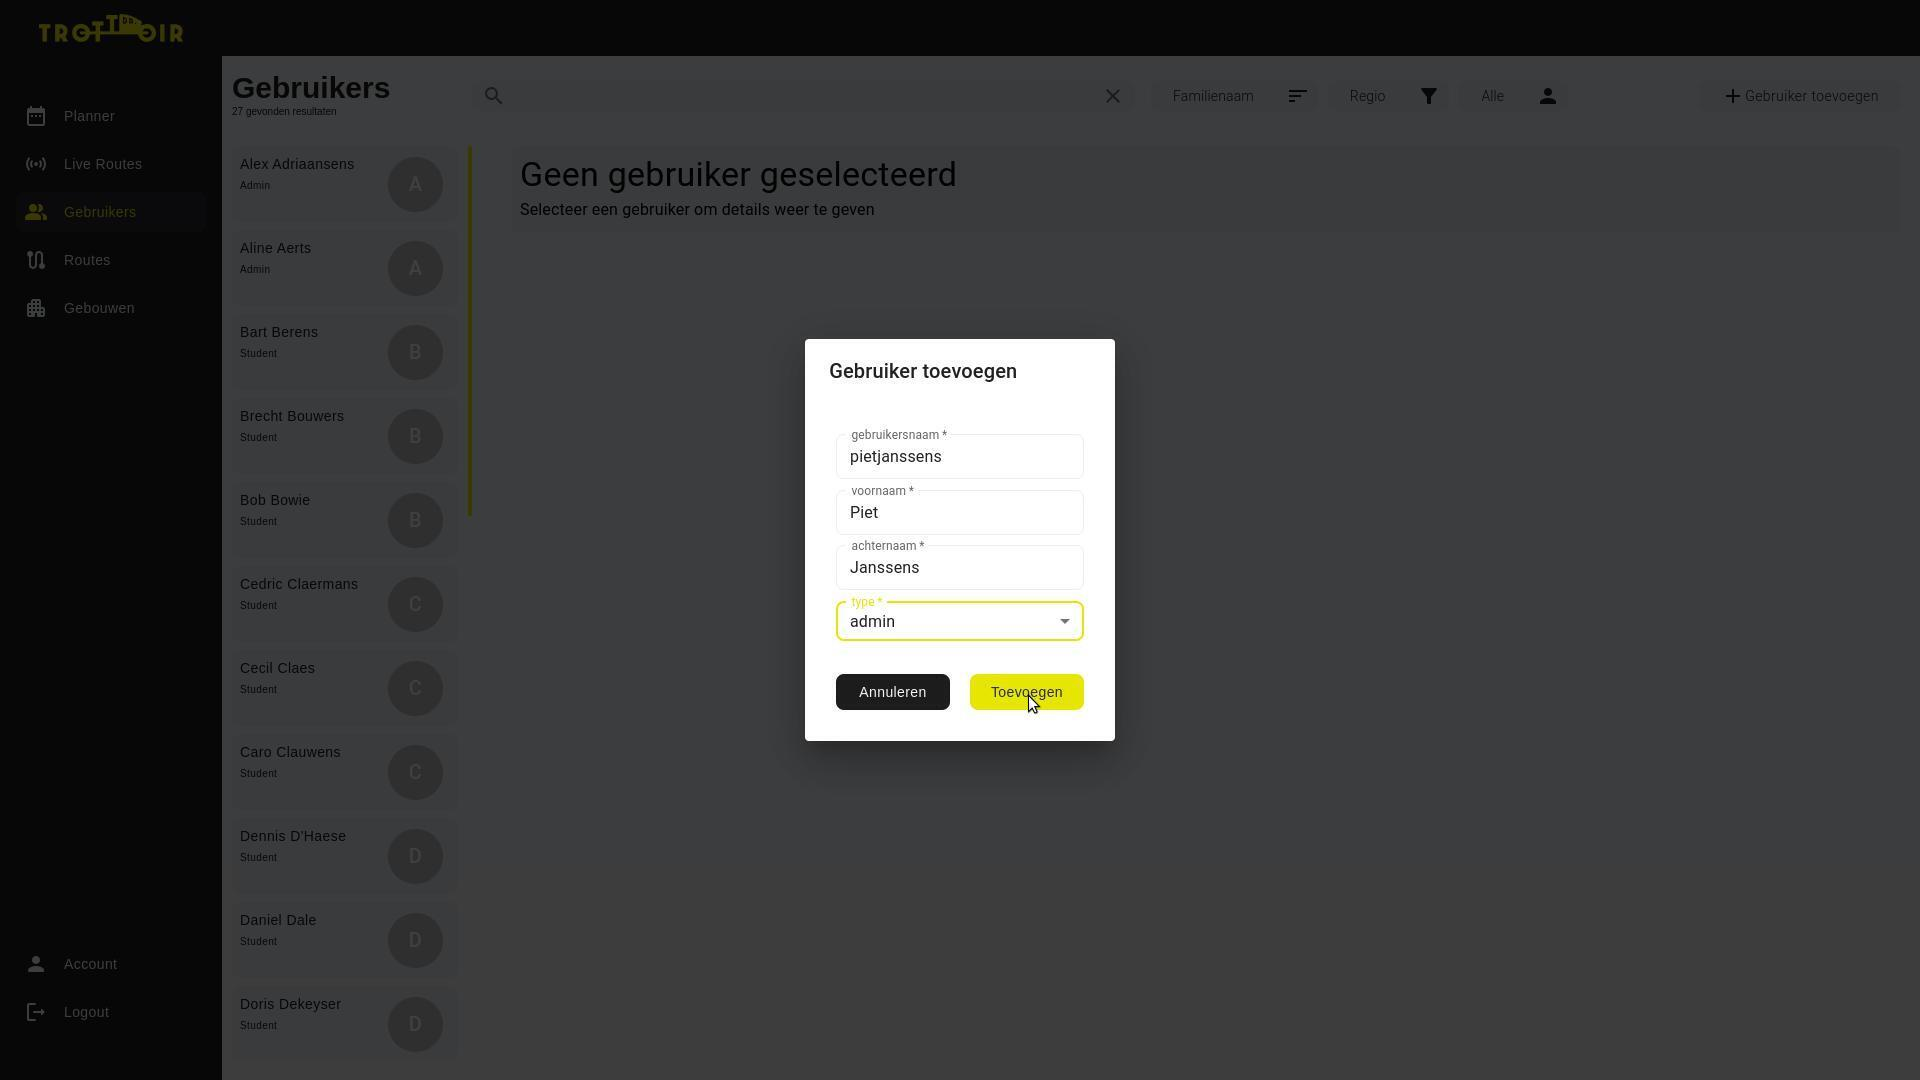
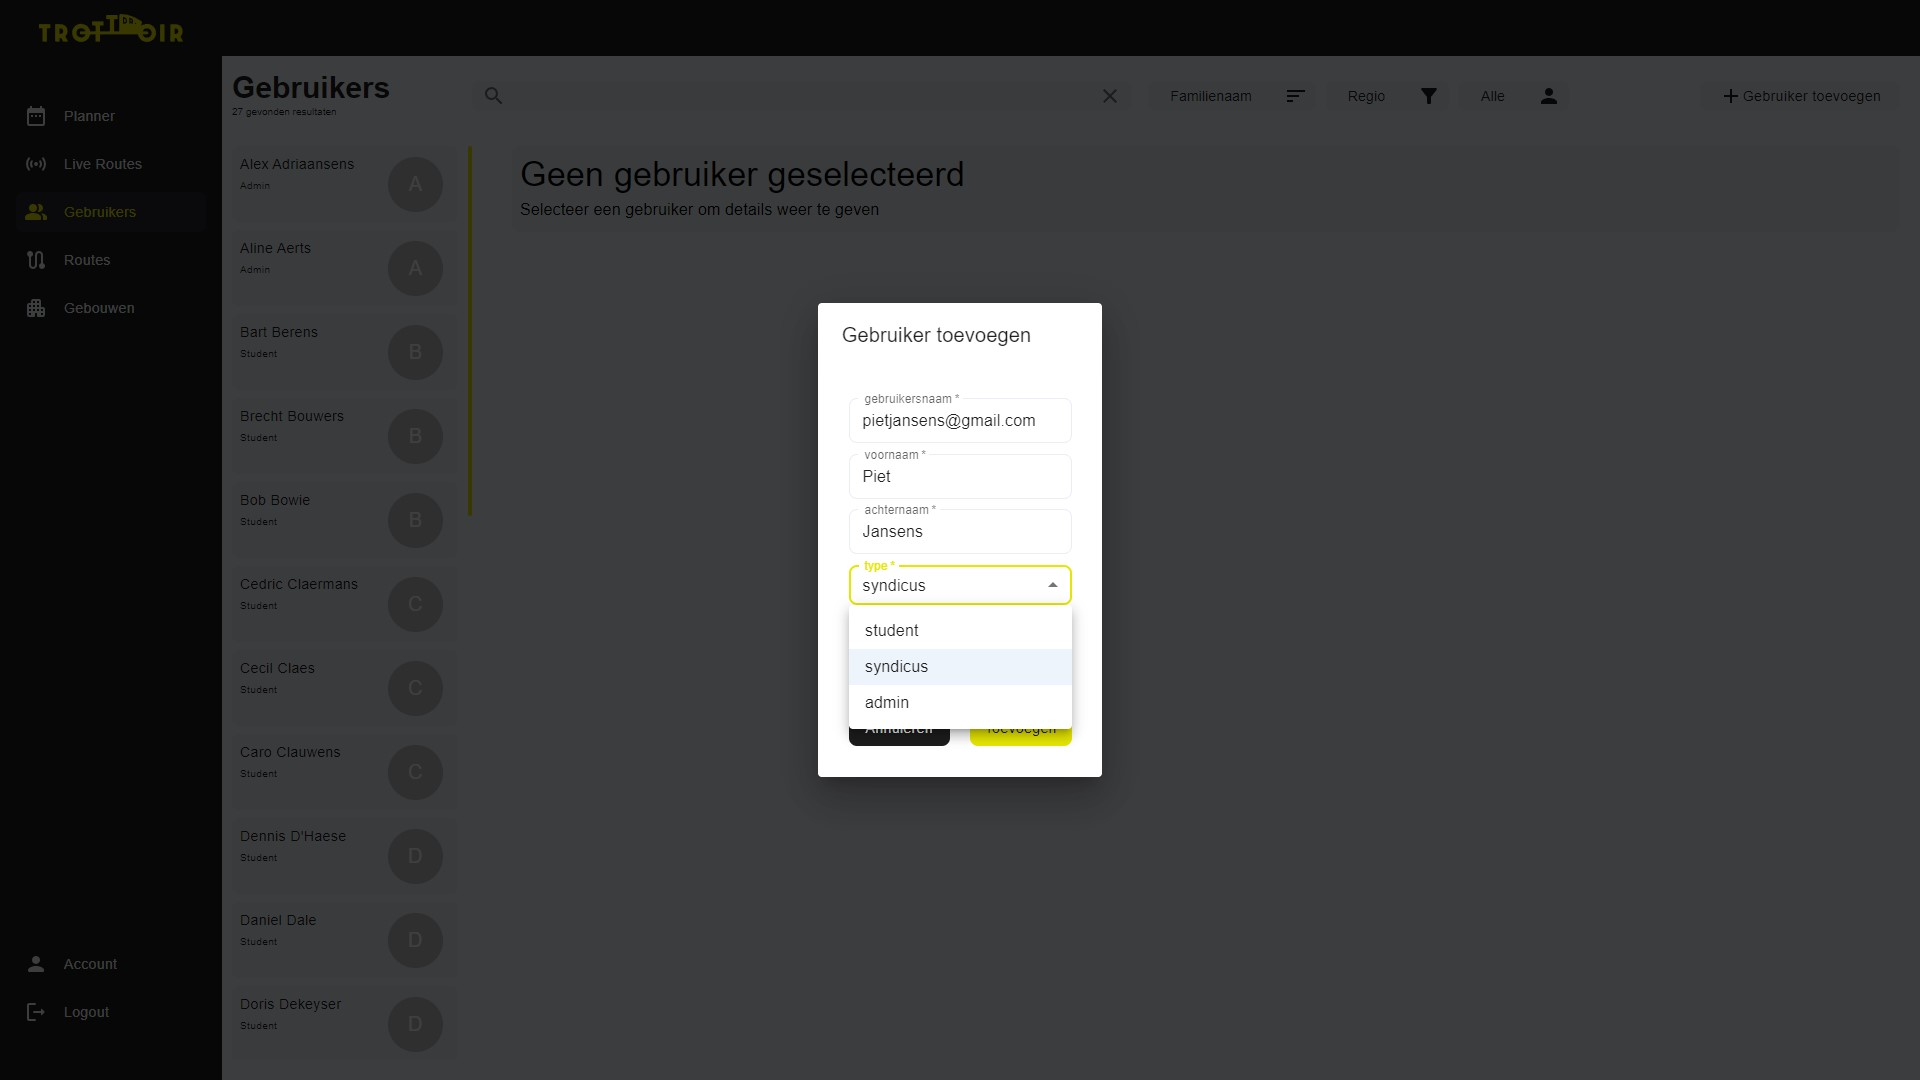
user guide done

Changed region(s): [[0.4062, 0.275, 0.5938, 0.7333], [0.2812, 0.1528, 0.5, 0.2139]]

diff --git a/user_guide/guide.md b/user_guide/guide.md
@@ -26,36 +26,55 @@
 ### Aanmelden
 
 Wanneer een gebruiker voor het eerst de webapp bezoekt, komt hij op de aanmeldpagina.
-Mocht een gebruiker zijn wachtwoord vergeten zijn, is er een optie om het wachtwoord te resetten. Hiervoor wordt een mail gestuurd naar het mailadres.
+Mocht een gebruiker zijn wachtwoord vergeten zijn, is er een optie om het wachtwoord te resetten. Hiervoor wordt een 
+mail gestuurd naar het mailadres.
 ![Aanmeldpagina](screenshots/gebruikers/0_login.jpg)
-Als we in de zijbalk naar de gebruikerspagina navigeren, kunnen we voor elke gebruiker een planning en een geschiedenis zien, en ook een grafiek met het aantal gewerkte uren.
+Als we in de zijbalk naar de gebruikerspagina navigeren, kunnen we voor elke gebruiker een planning en een geschiedenis 
+zien, en ook een grafiek met het aantal gewerkte uren.
 ![Gebruikerspagina](screenshots/gebruikers/3_detail.jpg)
 
 ### Toevoegen
 
-Om een gebruiker toe te voegen drukken we op de knop in de rechter bovenhoek.
+Om een gebruiker toe te voegen drukken we op de knop in de rechterbovenhoek.
 ![Gebruiker toevoegen](screenshots/gebruikers/1_toevoegen.jpg)
-Er komt een popup om de nodige gegevens in te vullen. Kies als gebruikersnaam het mailadres van de gebruiker. Hier kunnen we ook het type van de accound kiezen.
+Er komt een popup om de nodige gegevens in te vullen. Kies als gebruikersnaam het mailadres van de gebruiker. 
+Hier kunnen we ook het type van het account kiezen.
 ![Gebruiker toevoegen popup](screenshots/gebruikers/2_toevoegen2.jpg)
+
+#### Syndicus
+Als we een syndicus toevoegen kunnen we een lijst aan gebouwen selecteren dat deze syndicus heeft.
+![Gebruiker toevoegen syndicus](screenshots/gebruikers/4_toevoegen_syndicus.jpg)
+
+#### Student
+Als we een student toevoegen kunnen we selecteren of het over een superstudent gaat of niet. 
+We moeten dan ook een regio selecteren.
+![Gebruiker toevoegen syndicus](screenshots/gebruikers/5_toevoegen_student.jpg)
 
 ## Gebouwen
 
 [Terug](#gebruikers-handleiding)
 
 Als we in de zijbalk naar de gebouwenpagina navigeren krijgen we de lijst van gebouwen te zien.
+We kunnen in de top bar zoeken op gebouwen, kiezen op welk veld we willen sorteren en filteren 
+op regio
 ![Gebouwenpagina](screenshots/gebouwen/01_page.jpg)
-Als we een gebouw selecteren, krijgen we de enkele details te zien, zoals het adres, de handleiding, de publieke link, de foto. Eronder zien we de templates, de planning, en de problemen die de studenten hebben aangegeven.
+Als we een gebouw selecteren, krijgen we de details te zien, zoals het adres, de handleiding, 
+de publieke link, de foto. Eronder zien we de templates, de planning, en de problemen die de 
+studenten hebben aangegeven.
 ![Gebouw detail](screenshots/gebouwen/08_detail_manual.jpg)
 
 ### Toevoegen
 
-Om een gebouw toe te voegen selecteren we de knop in de rechter bovenhoek.
+Om een gebouw toe te voegen selecteren we de knop in de rechterbovenhoek.
 ![Gebouw toevoegen](screenshots/gebouwen/02_toevoegen.jpg)
-Er komt een popup tevoorschijn om de gegevens in te vullen. Elke gebouw moet een coordinaat hebben zodat studenten het altijd vinden. Door op de knop naast het adres te drukken, zal de applicatie zelf proberen het coordinaat te vinden. De blauwe marker op de kaart kan ook versleept worden om het coordinaat aan te passen.
-![Gebouw toevoegen coorinaat](screenshots/gebouwen/03_toevoegen_locate.jpg)
+Er komt een popup tevoorschijn om de gegevens in te vullen. Elke gebouw moet een coördinaat  
+hebben zodat studenten het altijd vinden. Door op de knop naast het adres te drukken, zal de 
+applicatie zelf proberen het coördinaat te vinden. De blauwe marker op de kaart kan ook versleept 
+worden om het coördinaat aan te passen.
+![Gebouw toevoegen coördinaat](screenshots/gebouwen/03_toevoegen_locate.jpg)
 Het is mogelijk om één of meerdere syndici te koppelen aan een gebouw.
 ![Gebouw toevoegen syndicus](screenshots/gebouwen/04_toevoegen_syndicus.jpg)
-Door op de handleiding knop te klikken kunnen we een pdf bestand uploaden voor dit gebouw.
+Door op de handleiding knop te klikken kunnen we een pdf-bestand uploaden voor dit gebouw.
 ![Gebouw toevoegen handleiding](screenshots/gebouwen/05_toevoegen_handleiding.jpg)
 We kunnen ook een afbeelding van de gevel uploaden zodat studenten het gebouw makkelijk herkennen.
 ![Gebouw toevoegen afbeelding](screenshots/gebouwen/06_toevoegen_afbeelding.jpg)
@@ -71,10 +90,12 @@ De popup om een gebouw aan te passen werkt op dezelfde manier als die om een geb
 
 ### Templates
 
-Templates zijn herbruikbare planningen. Zo kan er voor een gebouw bijvoorbeeld een zomerplanning en een winterplanning zijn. Templates hebben geen vaste lengte.
+Templates zijn herbruikbare planningen. Zo kan er voor een gebouw bijvoorbeeld een zomerplanning 
+en een winterplanning zijn. Templates hebben geen vaste lengte.
 Om een nieuwe template te maken, druk op het plusje onderaan de lijst van templates.
 ![Template toevoegen](screenshots/gebouwen/11_template_add.jpg)
-In de popup kan een bestaande template geselcteerd worden om te bewerken, of kan een nieuwe naam getypt worden om de nieuwe template te maken.
+In de popup kan een bestaande template geselecteerd worden om te bewerken, of kan een nieuwe naam 
+getypt worden om de nieuwe template te maken.
 ![Template maken](screenshots/gebouwen/12_template_create.jpg)
 Klik op een bepaalde weekdag om aan te duiden wat er op die dag moet gebeuren.
 ![Template dag](screenshots/gebouwen/13_template_day.jpg)
@@ -87,29 +108,32 @@ Een template kan ook aangepast worden door op het potlood icoontje te drukken.
 
 ### Ophalingen plannen
 
-Om ophalinge te plannen kunnen we een template plannen door bij een bepaalde week op het eerste icoontje te klikken.
+Om ophalingen te plannen kunnen we een template plannen door bij een bepaalde week op het eerste 
+icoontje te klikken.
 ![Template plannen](screenshots/gebouwen/17_plan_template.jpg)
 Kies een template om te plannen.
 ![Template kiezen](screenshots/gebouwen/18_plan_template_select.jpg)
 De ophalingen die gepland zouden worden, worden overzichtelijk weergegeven.
 ![Template plannen preview](screenshots/gebouwen/19_plan_template_selected.jpg)
-Het is ook nog molgeijk om de datum waarop de template gepland wordt aan te passen. In de meeste gevallen zal dit wel een maandag zijn.
+Het is ook nog mogelijk om de datum waarop de template gepland wordt aan te passen. In de meeste 
+gevallen zal dit wel een maandag zijn.
 ![Template plannen datum](screenshots/gebouwen/20_plan_template_date.jpg)
 Druk op *opslaan* om de ophalingen toe te voegen.
 ![Template plannen opslaan](screenshots/gebouwen/21_plan_template_save.jpg)
 De ophalingen zijn nu zichtbaar in de planning.
 ![Template gepland](screenshots/gebouwen/22_plan_template_planned.jpg)
-Het is ook mogelijk om individuele ophalinge toe te voegen door op het tweede icoontje te drukken.
+Het is ook mogelijk om individuele ophalingen toe te voegen door op het tweede icoontje te 
+drukken.
 ![Ophaling plannen](screenshots/gebouwen/23_plan_sched.jpg)
 Kies de datum en het afval type. Druk op opslaan om de ophaling toe te voegen.
 ![Ophaling plannen opslaan](screenshots/gebouwen/24_plan_sched_save.jpg)
 
 ### Publieke link
 
-Om een publieke link voor een gebouw te (her)generern, druk op het herlaad icoontje.
+Om een publieke link voor een gebouw te (her)genereren, druk op het herlaadicoontje.
 ![Link genereren](screenshots/gebouwen/25_link_generate.jpg)
 De link kan makkelijk gekopieerd worden door op het ander icoontje te drukken.
-![Link kopieren](screenshots/gebouwen/26_link_copy.jpg)
+![Link kopiëren](screenshots/gebouwen/26_link_copy.jpg)
 De publieke pagina is nu beschikbaar.
 ![Link pagina](screenshots/gebouwen/27_link_page.jpg)
 
@@ -118,14 +142,23 @@ De publieke pagina is nu beschikbaar.
 [Terug](#gebruikers-handleiding)
 
 De routes pagina is waar definities van routes kunnen aangemaakt en aangepast worden.
+In de top bar kunnen we zoeken op routes, sorteren op verschillende velden en filteren op regio. 
 ![](screenshots/routes/0_page.jpg)
+Door op een route te klikken zien we alle details van deze route. Men ziet de gebouwen, hun
+volgorde en de planningen.
 ![](screenshots/routes/3_detail.jpg)
 ### Toevoegen
+Een route toevoegen kan door op de "route toevoegen" knop rechts boven te klikken. Dan moet een
+naam en regio ingegeven worden.
 ![](screenshots/routes/1_toevoegen.jpg)
 ![](screenshots/routes/2_toevoegen_save.jpg)
 ### Aanpassen
+De route kunnen we dan aanpassen. Een gebouw toevoegen doen we door op het plusje onderaan te 
+klikken. Daar kunnen we zoeken door gebouwen en er eentje selecteren om toe te voegen.
 ![](screenshots/routes/4_building_add.jpg)
 ![](screenshots/routes/5_building_add_dialog.jpg)
+
+De volgorde van gebouwen kan aangepast worden door ze te verslepen tot in de gewenste volgorde.
 ![](screenshots/routes/6_building_drag.jpg)
 ![](screenshots/routes/7_building_remove.jpg)
 
@@ -136,14 +169,14 @@ De planner page is waar de planning week per week opgesteld kan worden.
 
 ![](screenshots/planner/0_page.jpg)
 
-In de topbar hier kan je selecteren van welke regio je de planning wilt aanpassen.
+In de top-bar hier kunnen we selecteren van welke regio we de planning willen aanpassen.
 
 ![](screenshots/planner/1_regio_select.jpg)
 ### Ronde plannen
 
-Om een student te plannen op een bepaalde route op een bepaalde dag klik je op het hokje dat overeenkomt
-met de dag en route dat je wil plannen. Dit opent een venster waar je de student kan kiezen die deze route
-zal moeten doen.
+Om een student te plannen op een bepaalde route op een bepaalde dag klikken we op het hokje dat overeenkomt
+met de dag en route dat we willen plannen. Dit opent een venster waar we de student kunnen
+kiezen die deze route zal moeten doen.
 
 ![](screenshots/planner/2_task_add.jpg)
 ![](screenshots/planner/3_task_add_save.jpg)
@@ -153,8 +186,9 @@ Geplande studenten kunnen ook verschoven worden naar een andere dag en/of route.
 ![](screenshots/planner/6_task_drag.jpg)
 ### Ronde herhalen
 
-Indien een bepaalde student een route voor meerdere dagen na elkaar zou moeten doen kan men ook gewoon op
-het plusje rechts boven zijn blokje klikken om hem/haar voor een extra dag te plannen.
+Indien een bepaalde student een route voor meerdere dagen na elkaar zou moeten doen kunnen 
+we ook gewoon op het plusje rechts boven zijn blokje klikken om hem of haar voor een 
+extra dag te plannen.
 
 ![](screenshots/planner/4_task_extend.jpg)
 ### Ronde verwijderen
@@ -166,19 +200,19 @@ Een planning van een student verwijderen kan door op het kruisje rechts boven he
 ## Live Routes
 [Terug](#gebruikers-handleiding)
 
-De Live routes pagina toont alle routes die op een bepaalde dag gedaan worden. Standaard wordt de hudige dag getoond,
-maar door op het kalender icoontje rechts boven te klikken kan men een andere dag kiezen.
-Zo kan men toekomstige en voorbije dagen ook zien wat er moet gebeuren en gebeurd is.
+De Live routes pagina toont alle routes die op een bepaalde dag gedaan worden. Standaard wordt de 
+huidige dag getoond, maar door op het kalendericoontje rechts boven te klikken kan men een andere 
+dag kiezen. Zo kan men toekomstige en voorbije dagen ook zien wat er moet gebeuren en gebeurd is.
 
 ### Filters
-Net zoals op andere paginas kan men sorteren op verschillende velden. Dit kan op de naam van de route,
-de regio, de naam van de student en hoeveel percent van de route afgewerkt is.
+Net zoals op andere pagina's kan men sorteren op verschillende velden. Dit kan op de naam van de route,
+de regio, de naam van de student en hoeveel procent van de route afgewerkt is.
 
 Men kan ook filteren op regio, en op routes die nog bezig zijn of al compleet zijn.
 ![](screenshots/live_routes/0_page.jpg)
 
 ### Details view
-Door op een route te klikken open je de details van deze route. Hier kan je zien wat er al gedaan is en de fotos die de
-student geupload heeft.
+Door op een route te klikken open je de details van deze route. Hier kan je zien wat er al gedaan is en de foto's die de
+student geüpload heeft.
 
 ![](screenshots/live_routes/detail.jpg)
